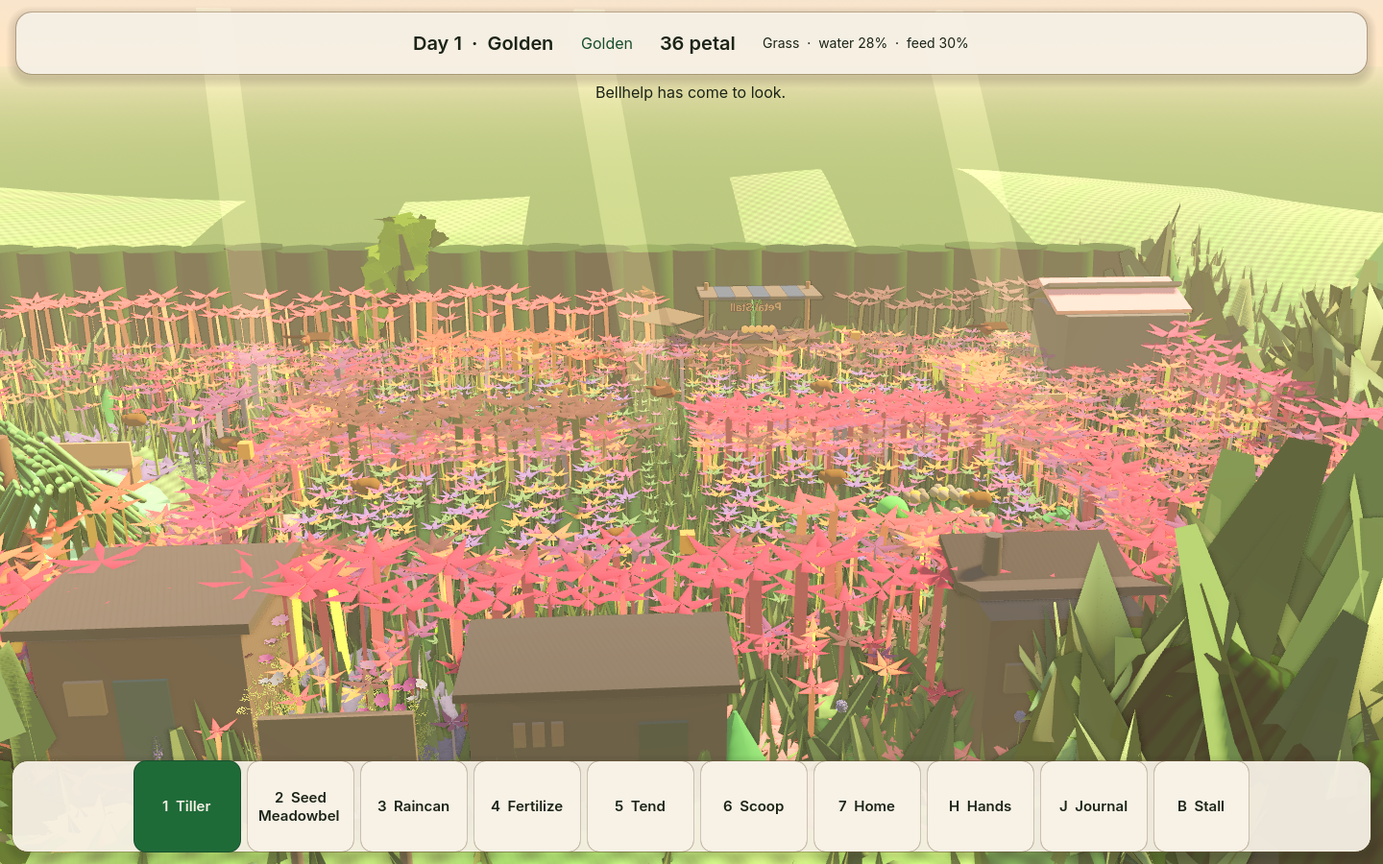
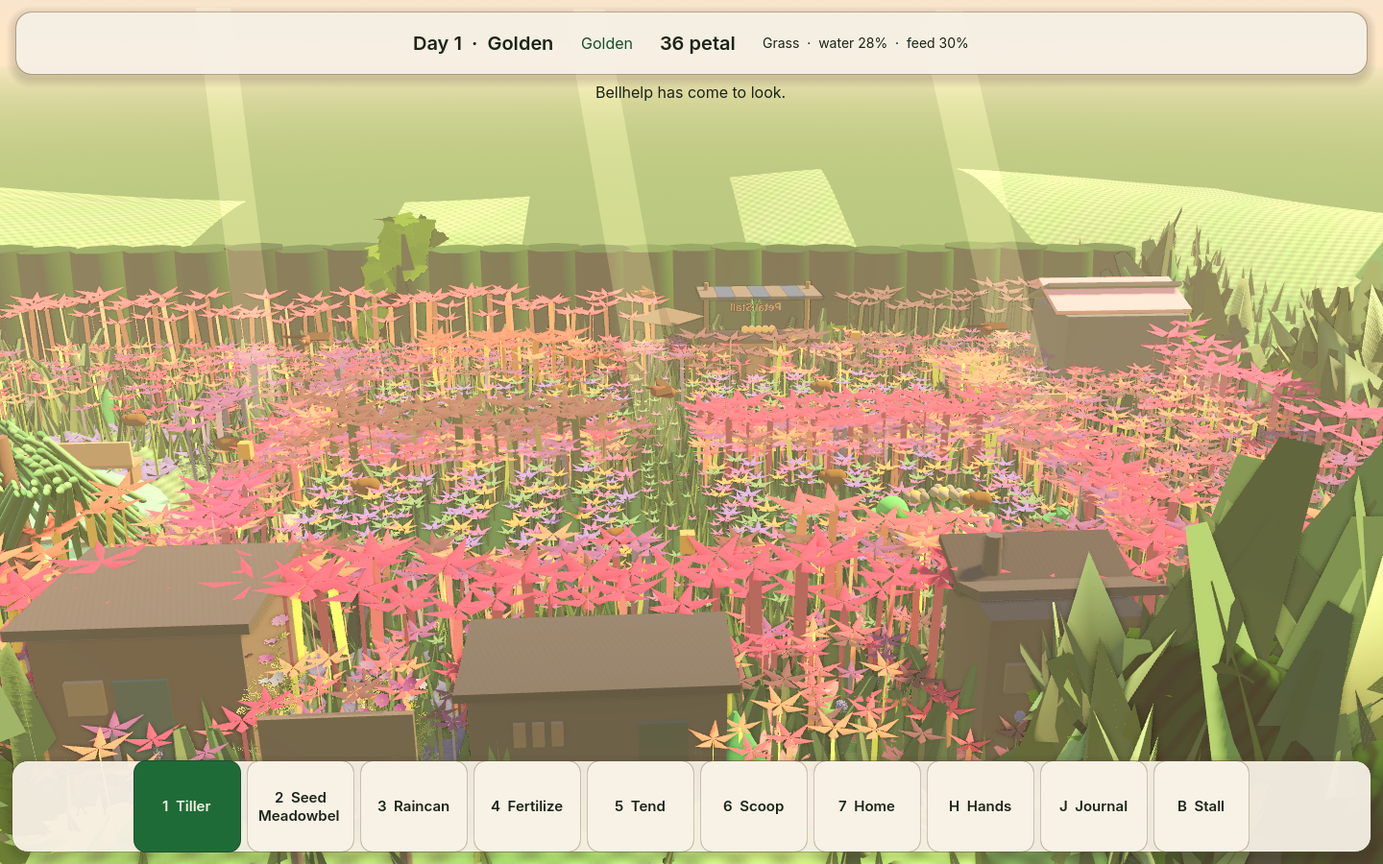
The south lawn in front of the rooms carries a tighter bloom grid.
The worn walks and the south hedge stay open. Hailo health
answered and POST /v1/decide returned 502, so this was not a
choice from that service.

diff --git a/docs/PETALWILD_MASTER_STATE.md b/docs/PETALWILD_MASTER_STATE.md
@@ -38,7 +38,7 @@ This machine has no Vulkan surface. Godot falls back to OpenGL 3 / llvmpipe. Aud
 - The garden does not yet look like the concept plates. See the gap list below.
 - Bellhelp’s five sphere lobes are gone. Five narrow petals run from the tips down to a small pad, with a dark five-petal well, a gold seed, a wider flared whorl, a lower rim, five gap tips past the lobes, a darker band, and a wide short rank inside the tips. The wide skirt of spheres is gone.
 - Lumen’s stalk is one fluted taper, cream at the base and green at the crown. The raised hand holds a seed tray. Each hand is a palm with three fingers and a thumb.
-- Crest leaf cards are 0.4 scale, and the far hedge keeps one 2.5 m tuft in four. A dark shrub row stands just behind that wall, taller at the east end. Light-green in the upper opening band fell from 53% to 24%, and in the lower band from 36% to 13%. The hill did not move. The stall still shows through the middle. The bright blue in that opening was the awning cloth. That stripe is darker now, about (171, 171, 173), and the sky-blue detector on the overview is 0. The shrub row behind the wall was the pale green in the upper band. That check now covers 1.2%, down from 3.5%. The crest leaf cards and the far trees were the side-opening pale pixels. The north backdrop trees are shorter. Paths are dark dirt with darker flagstones. Blooms are rose. StandardMaterial specular is off. The bench and planter are darkened, bright plant-atlas texels are capped, and the lantern glass is amber. The pink disk by the south-west rail, the untilled grass-plot tops, the meadowbell petals, the mauve bed, the resident hands, the light flagstones, the path dirt, and the loose stones are darkened. Overview pixels at pure white are 0. A planted cell keeps the meadow lid, so the crop sits in the bed. The north and south plots meet across the lawn. Flowers spill past the outer edges of the four beds and still line the north-south path. The path center stays open. The north-south track is narrower and its shoulders are meadow. The south and north tracks are narrower too. The wooden frames and the inner hedge around the beds are gone. The bed tracks are meadow, with the same lawn grass. The stall spur and the pond path stay worn, and flowers line both edges. The worn centers stay open. On the smaller-stone shot that check was 1.16% (870 pixels). On the open-stone shot that check was 1.28% (955 pixels). On the flower-track shot that check was 1.53% (1148 pixels) and the hill mean was (212.2, 223.9, 146.6). On the track-grass shot the upper-band check was 1.21% (903 pixels) and the hill mean was (212.0, 223.6, 146.4). On the worn-walk shot the ledger wrote 1.56% (1166 pixels). That file measures 3.72% (2780 of 74800). Empty meadow cells carry a fuller clump. A planted cell keeps eight flowers on its rim, and the stem stays clear. The worn centers stay open. The lawn just inside the west hedge carries a tighter bloom grid. The north apron continues east of the beds. The hedge wall stays. On this shot the upper-band check is 3.81% (2849 pixels) and the hill mean is (212.1, 223.8, 146.5). After dusk the three path lanterns brighten. The afternoon shot stays as it is. The north apron continues east of the beds, and the worn walks stay open. Eight bees drift over the beds. Four birds cross the garden by day and perch at dusk and in the rain.
+- Crest leaf cards are 0.4 scale, and the far hedge keeps one 2.5 m tuft in four. A dark shrub row stands just behind that wall, taller at the east end. Light-green in the upper opening band fell from 53% to 24%, and in the lower band from 36% to 13%. The hill did not move. The stall still shows through the middle. The bright blue in that opening was the awning cloth. That stripe is darker now, about (171, 171, 173), and the sky-blue detector on the overview is 0. The shrub row behind the wall was the pale green in the upper band. That check now covers 1.2%, down from 3.5%. The crest leaf cards and the far trees were the side-opening pale pixels. The north backdrop trees are shorter. Paths are dark dirt with darker flagstones. Blooms are rose. StandardMaterial specular is off. The bench and planter are darkened, bright plant-atlas texels are capped, and the lantern glass is amber. The pink disk by the south-west rail, the untilled grass-plot tops, the meadowbell petals, the mauve bed, the resident hands, the light flagstones, the path dirt, and the loose stones are darkened. Overview pixels at pure white are 0. A planted cell keeps the meadow lid, so the crop sits in the bed. The north and south plots meet across the lawn. Flowers spill past the outer edges of the four beds and still line the north-south path. The path center stays open. The north-south track is narrower and its shoulders are meadow. The south and north tracks are narrower too. The wooden frames and the inner hedge around the beds are gone. The bed tracks are meadow, with the same lawn grass. The stall spur and the pond path stay worn, and flowers line both edges. The worn centers stay open. On the smaller-stone shot that check was 1.16% (870 pixels). On the open-stone shot that check was 1.28% (955 pixels). On the flower-track shot that check was 1.53% (1148 pixels) and the hill mean was (212.2, 223.9, 146.6). On the track-grass shot the upper-band check was 1.21% (903 pixels) and the hill mean was (212.0, 223.6, 146.4). On the worn-walk shot the ledger wrote 1.56% (1166 pixels). That file measures 3.72% (2780 of 74800). Empty meadow cells carry a fuller clump. A planted cell keeps eight flowers on its rim, and the stem stays clear. The worn centers stay open. The lawn just inside the west hedge carries a tighter bloom grid. The north apron continues east of the beds. The south lawn in front of the rooms carries a tighter bloom grid. The hedge wall stays. On this shot the upper-band check is 3.81% (2849 pixels) and the hill mean is (212.1, 223.8, 146.5). After dusk the three path lanterns brighten. The afternoon shot stays as it is. The north apron continues east of the beds, and the south lawn in front of the rooms carries a tighter bloom grid. The worn walks stay open. Eight bees drift over the beds. Four birds cross the garden by day and perch at dusk and in the rain.
 - City, venues, and the agent civilisation are a single parish record (`data/district.json`, Hedge Hollow, phase A).
 - On-screen jellies stay at district fidelity or nearer. The directory shows each resident's home and job. The parish page lists venues. Petal Stall, the potting shed, the hedge tea house, the research hut, the media foundry, and the town hall board are open. Grove Park is not built, and demand for it is not simulated. Petal Stall demand is the people present plus creature residents.
 - Trust cannot research, draft, or act outside the process.
@@ -68,10 +68,10 @@ The north backdrop trees are shorter than the hedge. Crest leaf cards are 0.4 sc
 
 Three largest gaps still open, against `docs/reference/petalwild_target_garden_01.png` and `petalwild_target_garden_02.png`:
 
-1. **Hedge skyline.** The crest cards and the far trees are darker. On this shot 3.75% of the upper band is still light-green (2802 of 74800 pixels). The previous file, same check, is 2849. Most of that mask sits at screen x 1240–1400 (2324 of 2802). The hill mean is (212.2, 223.9, 146.6). The stall still shows through the middle. The south rooms, the gate board, and the bed blooms sit lower and do not cover that edge. PETAL-05.
+1. **Hedge skyline.** The crest cards and the far trees are darker. On this shot 3.65% of the upper band is still light-green (2733 of 74800 pixels). The previous file, same check, is 2802. Most of that mask sits at screen x 1240–1400 (2282 of 2733). The hill mean is (212.2, 223.9, 146.6). The stall still shows through the middle. The south rooms, the gate board, and the bed blooms sit lower and do not cover that edge. PETAL-05.
 2. **Bellhelp.** Ten tips, a short rank inside them, a darker band, and a wider skirt. The dark throat is still the center. PETAL-03.
-3. **Plot grid.** The wooden frames and the inner hedge around the four beds are gone. The parish hedge stays. Flowers spill past the outer edges of the beds and still line the north-south path. The north-south, south, and north bed tracks no longer carry stones. Meadow, flowers, and the same lawn grass cover them. The stall spur and the pond path stay worn, and flowers line both edges. Empty cells carry a fuller clump. A planted cell keeps eight flowers on its rim, and the stem stays clear. The parish lawn carries the meadow up to the bed edge. The west margin and the north apron carry a tighter bloom grid. The bridge strips between the beds carry a tighter bloom grid. The lawn just inside the west hedge carries a tighter bloom grid. The north apron continues east of the beds. The hedge wall stays. The worn centers, the stall spur, and the center between the strips stay open. The rooms and the pond stay clear. The bridge boxes stay. The plates are one continuous planting. Overview pixels at pure white are 0. The brightest pixel on this overview is (251, 255, 217) at screen (156, 513). PETAL-06.
+3. **Plot grid.** The wooden frames and the inner hedge around the four beds are gone. The parish hedge stays. Flowers spill past the outer edges of the beds and still line the north-south path. The north-south, south, and north bed tracks no longer carry stones. Meadow, flowers, and the same lawn grass cover them. The stall spur and the pond path stay worn, and flowers line both edges. Empty cells carry a fuller clump. A planted cell keeps eight flowers on its rim, and the stem stays clear. The parish lawn carries the meadow up to the bed edge. The west margin and the north apron carry a tighter bloom grid. The bridge strips between the beds carry a tighter bloom grid. The lawn just inside the west hedge carries a tighter bloom grid. The north apron continues east of the beds. The south lawn in front of the rooms carries a tighter bloom grid. The hedge wall stays. The worn centers, the stall spur, and the center between the strips stay open. The rooms and the pond stay clear. The bridge boxes stay. The plates are one continuous planting. Overview pixels at pure white are 0. The brightest pixel on this overview is (251, 255, 217) at screen (161, 512). PETAL-06.
 
 ## Next integration
 
-Keep this build playable. The next pass stays inside `scenes/main.tscn` (Hedge Hollow). The creature chain through Gushorn can happen in this garden, and two resident Bellhelps raise the species to breeding. The later resident walks to the first, the journal says a pair is in the parish, a breeding pair leaves one young beside them, a thin meadow does not send that young to the hedge while the pair remains, a reload keeps that young, and off-screen they share the first resident's home kit. A resident who is petted until they trust your hands is bonded. By day they walk to the gardener, the journal keeps that trust beside the pair, and a reload keeps the bond. By day a resident on screen walks to a ripe plant they came for and bites when they reach it. That plant has to grow back. Off screen they bite without crossing the garden. A reload keeps them headed for the fruit. A dry crop droops and loses height until the bed is watered. A tired crop stands shorter until the bed is fed, and a dry one still droops. Left dry for six hours, it is gone from the bed, and a reload keeps that clock. A living crop tires its bed. By day Bram feeds the one under that crop's fertility line, thirst still comes first, the pouch is not spent, and a reload keeps that walk. He leaves a tired bramble when a settled Grapling is resting on it and feeds the next tired bed. If that cane is the only one, he leaves it. The bed readout says when a crop needs water, when it needs feed, when fruit is returning, when a cane is kept, and when the bells are filling, and when a reed is kept. A dry bed says thirst before the cane. A reload keeps that line. A visitor on the cane does not stop him. A visitor whose plants are gone walks to the gate, the journal says they are heading for the hedge, Nessa writes the departure into the parish book, and a reload keeps that walk. When two visitors leave on the same tick she writes both names. If one turns back, that name leaves the page and she still writes the other. If they all turn back, the page stays blank. A reload keeps them in the garden. On an even afternoon it rains from 11:00 through 16:30, Nessa walks the tea house, the hut, and the foundry, Bram walks the shed and the stall, Lumen paces the awning, nothing is filed, the beds take the water, and a reload keeps that shower and the round. A resident with a home kit walks to it and stays awake. With no kit they stay out in the rain. At night, with no kit, they sleep under the stall awning and go back to the flower in the morning. A pair still walks together. A kit still wins. A visitor walks under the stall awning in the rain and at night, and stays awake. In the morning they go back to the flower. A departure still goes to the gate, and a dry afternoon leaves them on the flower. Half an hour of rain carries seed from a ripe plant into the next empty tilled bed. A dry hour does not, and a reload keeps the seedling. In the mist the beds keep the water they already have. The mist does not water them, and it does not carry seed. An odd afternoon stays golden, including the capture hour. Reedic walks to Bulrush. A visitor keeps that walk. Once it has settled, it walks to a reed, on screen and off it, and a wet reed stays wet. A visitor does not hold the water, and a dry reed still dries. Rain cover, a home kit, and a departure still come first. A bonded Reedic stays in the pond. A reload keeps that reed. The bed readout says the reed is kept. Once that Bulrush settles, company arrives, and when the partner settles the journal says a pair. The later one wades to the first. In the pond a Bulrush and a Reedic sit in the water, and so does a young Bulrush. On the lawn, and under a home kit, they stand on the ground. A bonded Bulrush stays in the pond. A reload keeps that pair, and a home kit at night still wins. At dusk Pegapear walks to the nightlantern, and once it has settled the morning sends it back to the peach. A visitor at dusk walks to the lantern too. A resident bites that lantern at dusk and leaves the peach ripe. In the morning the bite is the peach, and the lantern stays ripe. A visitor does not bite. Night does not bite. Off screen the bite still lands. A reload keeps that bite. A bitten lantern on night-loam grows back. Without that loam it stays short. While it is short, dusk still walks to it, on screen and off. A bitten peach still draws the morning. The bed says a bitten crop is growing back once its water and feed are met. A lantern without night-loam says it needs that soil instead. A harvest leaves the same mark, thirst still comes first, and a ripe bed clears it. Off screen that walk continues. Rain cover, a home kit, and a departure still come first. A reload keeps the hour. Gushorn walks to the night-loam. Without a settled crown, one bed of it thins every four hours, and a nightlantern on that soil stops growing. A settled Gushorn holds the loam. Rain cover, a home kit, and a departure still come first. A reload keeps that clock. When fewer than four beds still hold it, a resident Dusknip lays the night-loam back, including under a nightlantern that had gone thin. A visitor does not. A Gushorn still short of the hedge turns back once that soil returns. A reload keeps the beds. Berrypatch walks to a bitten cane, on screen and off it. Once it has settled there, a wet fed cane ripens again. A visitor does not, and a dry or tired cane stays bitten. Rain cover, a home kit, and a departure still come first. A reload keeps that fruit. Grapling creeps, vine-slow, to a bramble, on screen and off it. Once it has settled and is resting on that cane, the bed stops tiring while the cane is wet. A visitor does not feed it, and a dry cane still tires. Rain cover, a home kit, and a departure still come first. A reload keeps the grapling on that cane. Cirlark and Dusknip walk to Bellhelp. A visitor Cirlark keeps that walk. Once it has settled, it walks to a short meadowbell, on screen and off it, and a wet fed bell fills in. A visitor does not fill it, and a dry or tired bell stays short. Rain cover, a home kit, and a departure still come first. A reload keeps that bell. The bed readout says the bells are filling. A departure is not followed. Rain cover and a home kit still win. A settler stays. A placed home kit is a moss shelter. Off-screen, a resident still bites a ripe plant they came for, and a reload keeps that bite. Grove Park is still not built. The hedge tea house stands on the south lawn. The research hut stands west of it, and the media foundry stands between them. The town hall is a board by the south gate. Meadowbells are a clump of three, and every crop sits in a ring of leaves. The wooden frames and the inner hedge around the four beds are gone. The parish hedge stays. Flowers spill past the outer edges of the beds and still line the north-south path. The north-south, south, and north bed tracks no longer carry stones. Meadow, flowers, and the same lawn grass cover them. The stall spur and the pond path stay worn, and flowers line both edges. The worn centers stay open. Empty meadow cells carry a fuller clump. A planted cell keeps eight flowers on its rim, and the stem stays clear. The worn centers stay open. The lawn just inside the west hedge carries a tighter bloom grid. The north apron continues east of the beds. The hedge wall stays. After dusk the three path lanterns brighten, and the afternoon shot stays as it is. On this shot 3.75% of the upper band is still light green (2802 of 74800 pixels). The previous file is 2849, mostly at screen x 1240–1400, and the stall still shows through the middle. The hill mean is (212.2, 223.9, 146.6). The east apron band (screen y 370–450, x 40–560) changed 43.6%. The south rooms and the town hall board sit in the foreground. Bees sit on the flowers while it rains. Do not paint that hill edge, do not cut the hill, and do not raise the east shrubs. Do not fill Bellhelp’s dark throat. Do not open a side demo. The Kenney/Cara grove in `scripts/presentation/` is not the running scene.
+Keep this build playable. The next pass stays inside `scenes/main.tscn` (Hedge Hollow). The creature chain through Gushorn can happen in this garden, and two resident Bellhelps raise the species to breeding. The later resident walks to the first, the journal says a pair is in the parish, a breeding pair leaves one young beside them, a thin meadow does not send that young to the hedge while the pair remains, a reload keeps that young, and off-screen they share the first resident's home kit. A resident who is petted until they trust your hands is bonded. By day they walk to the gardener, the journal keeps that trust beside the pair, and a reload keeps the bond. By day a resident on screen walks to a ripe plant they came for and bites when they reach it. That plant has to grow back. Off screen they bite without crossing the garden. A reload keeps them headed for the fruit. A dry crop droops and loses height until the bed is watered. A tired crop stands shorter until the bed is fed, and a dry one still droops. Left dry for six hours, it is gone from the bed, and a reload keeps that clock. A living crop tires its bed. By day Bram feeds the one under that crop's fertility line, thirst still comes first, the pouch is not spent, and a reload keeps that walk. He leaves a tired bramble when a settled Grapling is resting on it and feeds the next tired bed. If that cane is the only one, he leaves it. The bed readout says when a crop needs water, when it needs feed, when fruit is returning, when a cane is kept, and when the bells are filling, and when a reed is kept. A dry bed says thirst before the cane. A reload keeps that line. A visitor on the cane does not stop him. A visitor whose plants are gone walks to the gate, the journal says they are heading for the hedge, Nessa writes the departure into the parish book, and a reload keeps that walk. When two visitors leave on the same tick she writes both names. If one turns back, that name leaves the page and she still writes the other. If they all turn back, the page stays blank. A reload keeps them in the garden. On an even afternoon it rains from 11:00 through 16:30, Nessa walks the tea house, the hut, and the foundry, Bram walks the shed and the stall, Lumen paces the awning, nothing is filed, the beds take the water, and a reload keeps that shower and the round. A resident with a home kit walks to it and stays awake. With no kit they stay out in the rain. At night, with no kit, they sleep under the stall awning and go back to the flower in the morning. A pair still walks together. A kit still wins. A visitor walks under the stall awning in the rain and at night, and stays awake. In the morning they go back to the flower. A departure still goes to the gate, and a dry afternoon leaves them on the flower. Half an hour of rain carries seed from a ripe plant into the next empty tilled bed. A dry hour does not, and a reload keeps the seedling. In the mist the beds keep the water they already have. The mist does not water them, and it does not carry seed. An odd afternoon stays golden, including the capture hour. Reedic walks to Bulrush. A visitor keeps that walk. Once it has settled, it walks to a reed, on screen and off it, and a wet reed stays wet. A visitor does not hold the water, and a dry reed still dries. Rain cover, a home kit, and a departure still come first. A bonded Reedic stays in the pond. A reload keeps that reed. The bed readout says the reed is kept. Once that Bulrush settles, company arrives, and when the partner settles the journal says a pair. The later one wades to the first. In the pond a Bulrush and a Reedic sit in the water, and so does a young Bulrush. On the lawn, and under a home kit, they stand on the ground. A bonded Bulrush stays in the pond. A reload keeps that pair, and a home kit at night still wins. At dusk Pegapear walks to the nightlantern, and once it has settled the morning sends it back to the peach. A visitor at dusk walks to the lantern too. A resident bites that lantern at dusk and leaves the peach ripe. In the morning the bite is the peach, and the lantern stays ripe. A visitor does not bite. Night does not bite. Off screen the bite still lands. A reload keeps that bite. A bitten lantern on night-loam grows back. Without that loam it stays short. While it is short, dusk still walks to it, on screen and off. A bitten peach still draws the morning. The bed says a bitten crop is growing back once its water and feed are met. A lantern without night-loam says it needs that soil instead. A harvest leaves the same mark, thirst still comes first, and a ripe bed clears it. Off screen that walk continues. Rain cover, a home kit, and a departure still come first. A reload keeps the hour. Gushorn walks to the night-loam. Without a settled crown, one bed of it thins every four hours, and a nightlantern on that soil stops growing. A settled Gushorn holds the loam. Rain cover, a home kit, and a departure still come first. A reload keeps that clock. When fewer than four beds still hold it, a resident Dusknip lays the night-loam back, including under a nightlantern that had gone thin. A visitor does not. A Gushorn still short of the hedge turns back once that soil returns. A reload keeps the beds. Berrypatch walks to a bitten cane, on screen and off it. Once it has settled there, a wet fed cane ripens again. A visitor does not, and a dry or tired cane stays bitten. Rain cover, a home kit, and a departure still come first. A reload keeps that fruit. Grapling creeps, vine-slow, to a bramble, on screen and off it. Once it has settled and is resting on that cane, the bed stops tiring while the cane is wet. A visitor does not feed it, and a dry cane still tires. Rain cover, a home kit, and a departure still come first. A reload keeps the grapling on that cane. Cirlark and Dusknip walk to Bellhelp. A visitor Cirlark keeps that walk. Once it has settled, it walks to a short meadowbell, on screen and off it, and a wet fed bell fills in. A visitor does not fill it, and a dry or tired bell stays short. Rain cover, a home kit, and a departure still come first. A reload keeps that bell. The bed readout says the bells are filling. A departure is not followed. Rain cover and a home kit still win. A settler stays. A placed home kit is a moss shelter. Off-screen, a resident still bites a ripe plant they came for, and a reload keeps that bite. Grove Park is still not built. The hedge tea house stands on the south lawn. The research hut stands west of it, and the media foundry stands between them. The town hall is a board by the south gate. Meadowbells are a clump of three, and every crop sits in a ring of leaves. The wooden frames and the inner hedge around the four beds are gone. The parish hedge stays. Flowers spill past the outer edges of the beds and still line the north-south path. The north-south, south, and north bed tracks no longer carry stones. Meadow, flowers, and the same lawn grass cover them. The stall spur and the pond path stay worn, and flowers line both edges. The worn centers stay open. Empty meadow cells carry a fuller clump. A planted cell keeps eight flowers on its rim, and the stem stays clear. The worn centers stay open. The lawn just inside the west hedge carries a tighter bloom grid. The north apron continues east of the beds. The south lawn in front of the rooms carries a tighter bloom grid. The hedge wall stays. After dusk the three path lanterns brighten, and the afternoon shot stays as it is. On this shot 3.65% of the upper band is still light green (2733 of 74800 pixels). The previous file is 2802, mostly at screen x 1240–1400, and the stall still shows through the middle. The hill mean is (212.2, 223.9, 146.6). The south band (screen y 740–860, x 100–900) changed 21.6%. The south rooms and the town hall board sit in the foreground. Bees sit on the flowers while it rains. Do not paint that hill edge, do not cut the hill, and do not raise the east shrubs. Do not fill Bellhelp’s dark throat. Do not open a side demo. The Kenney/Cara grove in `scripts/presentation/` is not the running scene.

diff --git a/docs/VISUAL_GAP.md b/docs/VISUAL_GAP.md
@@ -2,12 +2,12 @@
 
 Compared on 2026-09-23. The scene `tools/run.sh` launches is Hedge Hollow. Shots: `docs/screenshots/wave1_overview.png`, `wave1_jelly.png`, `wave1_lumen.png`. Targets: `docs/reference/petalwild_target_garden_01.png` and `petalwild_target_garden_02.png`.
 
-The north backdrop trees are shorter than the hedge. Crest leaf cards are 0.4 of their old size, and the far wall keeps one 2.5 m tuft in four. A row of dark shrubs stands just behind that wall. The east end is taller so its lip meets the hedge line. Light-green pixels in the upper opening band (screen y 265–320, x 40–1400) fell from 53% to 24%, and in the lower band (y 290–360, x 80–1200) from 36% to 13%. On the east lip (y 252–272, x 40–300) mean luminance fell from 200 to 162. The hill (y 200–245) did not change. The stall still sits in front of the middle of the wall. The bright blue band in that opening was the awning cloth, not a hole in the hedge. That stripe is darker now and reads about (171, 171, 173). A sky-blue detector on the overview (blue above 200, ahead of red by 20 and of green by 10) is 0. The shrub row behind the wall was lifting to pale green under the sun. The same light-green check (green ahead of red by 15 and of blue by 20, green above 140) now covers 1.2% of the upper band, down from 3.5% on the previous shot. The crest leaf cards and the far trees were the pale pixels in the side openings. The upper hill (screen y 200–230) stayed at about (213, 224, 148). The ground sky below the horizon is green, so a hole in the hill reads as olive rather than pale sky. Bellhelp’s close-up shows five pointed lobes, five gap tips past them, a wide short rank inside that ring, a darker band, and a wider flared whorl. The dark throat stays. The wide skirt of spheres is gone. The bench and planter use a dark multiply on the prop texture, and bright plant-atlas texels are capped. The three lantern glasses are amber instead of pure white. The pink disk by the south-west rail, the untilled grass-plot tops, the meadowbell petals, the mauve bed, the resident hands, the light flagstones, the path dirt, and the loose stones are darkened so they stay under the sun. Eight bees drift over the beds. Four birds cross the garden by day and perch at dusk and in the rain. A planted meadowbell is three bells on a leaf pad, and every crop sits in a ring of eight leaves. Pure white on this overview is 0. On the previous shot the upper-band light-green check was 1.17% and the hill mean was (212.9, 224.4, 147.6). The hedge tea house stands in the lower left of the home shot. On that shot the same check was 1.30% (969 pixels) and the hill mean was (212.0, 223.6, 146.4). The research hut stands in the lower middle of that shot, where the check was 1.17% (874 pixels) and the hill mean was (212.0, 223.6, 146.4). The media foundry stands in the lower middle of that shot, where the check was 1.15% (862 pixels) and the hill mean was (212.0, 223.6, 146.4). The town hall board now stands in the south gate. On the town-hall shot the check was 1.29% (968 pixels) and the hill mean was (212.0, 223.6, 146.4). On the six-bloom shot the check was 1.54% (1155 pixels) and the hill mean was (212.0, 223.7, 146.5). Empty untilled beds now carry nine dark leaf discs and eight short flowers, and a tilled or planted bed clears them. On the leaf-cover shot the check was 1.60% (1197 pixels) and the hill mean was (212.1, 223.8, 146.5). Neighboring empty cells now share an overlapping dark lid, so the brown seam inside a plot closes. On the joined-lid shot the check was 1.61% (1208 pixels) and the hill mean was (212.1, 223.8, 146.5). A planted cell now keeps that dark lid, so the crop sits in the meadow instead of an inset square. On the planted-lid shot the check was 1.54% (1149 pixels) and the hill mean was (212.1, 223.7, 146.5). The north and south plots now meet across the lawn, and the north-south path stays open. On the bridge shot the check was 1.57% (1176 pixels) and the hill mean was (212.2, 223.8, 146.6). Flowers now sit on both lips of the north-south path, and the path center stays open. On the path-lip shot the check was 1.61% (1204 pixels) and the hill mean was (212.1, 223.8, 146.5). Flowers now spill past the outer edges of the four beds, and the path-center pixels are unchanged. On the bed-edge shot the check was 1.45% (1083 pixels) and the hill mean was (212.2, 223.9, 146.6). The north-south track is narrower, its shoulders are meadow, and the center stays stone. On the narrow-track shot the check was 1.46% (1091 pixels) and the hill mean was (212.2, 223.9, 146.6). The south and north tracks are narrower too, with flowers on their lips. On the track-lip shot the check was 1.45% (1083 pixels) and the hill mean was (212.2, 223.9, 146.6). The wooden frames and the inner hedge around the four beds are gone. The parish hedge stays. On the open-bed shot the check was 1.26% (940 pixels) and the hill mean was (212.0, 223.6, 146.4). On the stepping-stone shot the check was 1.52% (1136 pixels) and the hill mean was (212.0, 223.7, 146.5). On the smaller-stone shot the check was 1.16% (870 pixels) and the hill mean was (212.0, 223.6, 146.4). On the open-stone shot the check was 1.28% (955 pixels) and the hill mean was (212.2, 223.9, 146.6). On the flower-track shot the check was 1.53% (1148 pixels) and the hill mean was (212.2, 223.9, 146.6). On the track-grass shot the check was 1.21% (903 pixels) and the hill mean was (212.0, 223.6, 146.4). On the worn-walk shot the ledger wrote 1.56% (1166 pixels) and the hill mean (212.1, 223.7, 146.5). The same light-green check on that file is 3.72% (2780 of 74800). Empty meadow cells carry a fuller clump: larger leaves, larger blooms, and four more flowers in the gaps. Tilling one empty cell clears twenty-one instances. On that shot the check was 3.70% (2766 of 74800) and the hill mean was (212.1, 223.7, 146.5). A planted cell now keeps eight flowers on its rim, and the stem stays clear. Opening that cell into meadow adds the other thirteen. The worn centers stay open. On that shot the check was 3.55% (2657 of 74800) and the hill mean was (212.0, 223.7, 146.4). On that shot the check was 3.80% (2841 of 74800) and the hill mean was (212.1, 223.7, 146.5). On that shot the check was 3.82% (2855 of 74800) and the hill mean was (212.1, 223.8, 146.5). The north apron above the beds carries a tighter bloom grid. The worn walks, the stall spur, the rooms, and the pond stay open. On that shot the check was 3.80% (2844). Against the file before it the band gained 82 pixels and lost 93. The hill mean was (212.1, 223.8, 146.5). 6.62% of the pixels below the horizon changed, and 0.49% above y 320. The apron band (screen y 350–400) changed 17%. The bridge strips between the north and south beds carry a tighter bloom grid. The worn center between them stays open. On that shot the check was 3.78% (2831). Against the file before it the band gained 41 pixels and lost 54. The hill mean was (212.2, 223.8, 146.6). 4.59% of the pixels below the horizon changed, and 0.27% above y 320. The bridge band (screen y 486–525, x 343–1037) changed 6%. The lawn just inside the west hedge now carries a tighter bloom grid. The hedge wall stays. On this shot the check is 3.81% (2849). Against that file the band gained 66 pixels and lost 48. The hill mean is (212.1, 223.8, 146.5). 4.73% of the pixels below the horizon changed, and 0.32% above y 320. The west band (screen y 450–700, x 1260–1440) changed 9%, and rose pixels there went from 2147 to 2749. After dusk the three path lanterns brighten. On the night shot the pond lamp moved from (199, 157, 108) to (254, 197, 114). The afternoon shot stays as it is. The north apron continues east of the beds. The worn walks stay open. On this shot the check is 3.75% (2802 of 74800). Against that file the band gained 163 pixels and lost 210. The hill mean is (212.2, 223.9, 146.6). 28.18% of the pixels below the horizon changed, and 1.78% above y 320. The east apron band (screen y 370–450, x 40–560) changed 43.6%, and rose pixels there went from 27759 to 28986. Pure white is 0. The sky-blue detector is 0.
+The north backdrop trees are shorter than the hedge. Crest leaf cards are 0.4 of their old size, and the far wall keeps one 2.5 m tuft in four. A row of dark shrubs stands just behind that wall. The east end is taller so its lip meets the hedge line. Light-green pixels in the upper opening band (screen y 265–320, x 40–1400) fell from 53% to 24%, and in the lower band (y 290–360, x 80–1200) from 36% to 13%. On the east lip (y 252–272, x 40–300) mean luminance fell from 200 to 162. The hill (y 200–245) did not change. The stall still sits in front of the middle of the wall. The bright blue band in that opening was the awning cloth, not a hole in the hedge. That stripe is darker now and reads about (171, 171, 173). A sky-blue detector on the overview (blue above 200, ahead of red by 20 and of green by 10) is 0. The shrub row behind the wall was lifting to pale green under the sun. The same light-green check (green ahead of red by 15 and of blue by 20, green above 140) now covers 1.2% of the upper band, down from 3.5% on the previous shot. The crest leaf cards and the far trees were the pale pixels in the side openings. The upper hill (screen y 200–230) stayed at about (213, 224, 148). The ground sky below the horizon is green, so a hole in the hill reads as olive rather than pale sky. Bellhelp’s close-up shows five pointed lobes, five gap tips past them, a wide short rank inside that ring, a darker band, and a wider flared whorl. The dark throat stays. The wide skirt of spheres is gone. The bench and planter use a dark multiply on the prop texture, and bright plant-atlas texels are capped. The three lantern glasses are amber instead of pure white. The pink disk by the south-west rail, the untilled grass-plot tops, the meadowbell petals, the mauve bed, the resident hands, the light flagstones, the path dirt, and the loose stones are darkened so they stay under the sun. Eight bees drift over the beds. Four birds cross the garden by day and perch at dusk and in the rain. A planted meadowbell is three bells on a leaf pad, and every crop sits in a ring of eight leaves. Pure white on this overview is 0. On the previous shot the upper-band light-green check was 1.17% and the hill mean was (212.9, 224.4, 147.6). The hedge tea house stands in the lower left of the home shot. On that shot the same check was 1.30% (969 pixels) and the hill mean was (212.0, 223.6, 146.4). The research hut stands in the lower middle of that shot, where the check was 1.17% (874 pixels) and the hill mean was (212.0, 223.6, 146.4). The media foundry stands in the lower middle of that shot, where the check was 1.15% (862 pixels) and the hill mean was (212.0, 223.6, 146.4). The town hall board now stands in the south gate. On the town-hall shot the check was 1.29% (968 pixels) and the hill mean was (212.0, 223.6, 146.4). On the six-bloom shot the check was 1.54% (1155 pixels) and the hill mean was (212.0, 223.7, 146.5). Empty untilled beds now carry nine dark leaf discs and eight short flowers, and a tilled or planted bed clears them. On the leaf-cover shot the check was 1.60% (1197 pixels) and the hill mean was (212.1, 223.8, 146.5). Neighboring empty cells now share an overlapping dark lid, so the brown seam inside a plot closes. On the joined-lid shot the check was 1.61% (1208 pixels) and the hill mean was (212.1, 223.8, 146.5). A planted cell now keeps that dark lid, so the crop sits in the meadow instead of an inset square. On the planted-lid shot the check was 1.54% (1149 pixels) and the hill mean was (212.1, 223.7, 146.5). The north and south plots now meet across the lawn, and the north-south path stays open. On the bridge shot the check was 1.57% (1176 pixels) and the hill mean was (212.2, 223.8, 146.6). Flowers now sit on both lips of the north-south path, and the path center stays open. On the path-lip shot the check was 1.61% (1204 pixels) and the hill mean was (212.1, 223.8, 146.5). Flowers now spill past the outer edges of the four beds, and the path-center pixels are unchanged. On the bed-edge shot the check was 1.45% (1083 pixels) and the hill mean was (212.2, 223.9, 146.6). The north-south track is narrower, its shoulders are meadow, and the center stays stone. On the narrow-track shot the check was 1.46% (1091 pixels) and the hill mean was (212.2, 223.9, 146.6). The south and north tracks are narrower too, with flowers on their lips. On the track-lip shot the check was 1.45% (1083 pixels) and the hill mean was (212.2, 223.9, 146.6). The wooden frames and the inner hedge around the four beds are gone. The parish hedge stays. On the open-bed shot the check was 1.26% (940 pixels) and the hill mean was (212.0, 223.6, 146.4). On the stepping-stone shot the check was 1.52% (1136 pixels) and the hill mean was (212.0, 223.7, 146.5). On the smaller-stone shot the check was 1.16% (870 pixels) and the hill mean was (212.0, 223.6, 146.4). On the open-stone shot the check was 1.28% (955 pixels) and the hill mean was (212.2, 223.9, 146.6). On the flower-track shot the check was 1.53% (1148 pixels) and the hill mean was (212.2, 223.9, 146.6). On the track-grass shot the check was 1.21% (903 pixels) and the hill mean was (212.0, 223.6, 146.4). On the worn-walk shot the ledger wrote 1.56% (1166 pixels) and the hill mean (212.1, 223.7, 146.5). The same light-green check on that file is 3.72% (2780 of 74800). Empty meadow cells carry a fuller clump: larger leaves, larger blooms, and four more flowers in the gaps. Tilling one empty cell clears twenty-one instances. On that shot the check was 3.70% (2766 of 74800) and the hill mean was (212.1, 223.7, 146.5). A planted cell now keeps eight flowers on its rim, and the stem stays clear. Opening that cell into meadow adds the other thirteen. The worn centers stay open. On that shot the check was 3.55% (2657 of 74800) and the hill mean was (212.0, 223.7, 146.4). On that shot the check was 3.80% (2841 of 74800) and the hill mean was (212.1, 223.7, 146.5). On that shot the check was 3.82% (2855 of 74800) and the hill mean was (212.1, 223.8, 146.5). The north apron above the beds carries a tighter bloom grid. The worn walks, the stall spur, the rooms, and the pond stay open. On that shot the check was 3.80% (2844). Against the file before it the band gained 82 pixels and lost 93. The hill mean was (212.1, 223.8, 146.5). 6.62% of the pixels below the horizon changed, and 0.49% above y 320. The apron band (screen y 350–400) changed 17%. The bridge strips between the north and south beds carry a tighter bloom grid. The worn center between them stays open. On that shot the check was 3.78% (2831). Against the file before it the band gained 41 pixels and lost 54. The hill mean was (212.2, 223.8, 146.6). 4.59% of the pixels below the horizon changed, and 0.27% above y 320. The bridge band (screen y 486–525, x 343–1037) changed 6%. The lawn just inside the west hedge now carries a tighter bloom grid. The hedge wall stays. On this shot the check is 3.81% (2849). Against that file the band gained 66 pixels and lost 48. The hill mean is (212.1, 223.8, 146.5). 4.73% of the pixels below the horizon changed, and 0.32% above y 320. The west band (screen y 450–700, x 1260–1440) changed 9%, and rose pixels there went from 2147 to 2749. After dusk the three path lanterns brighten. On the night shot the pond lamp moved from (199, 157, 108) to (254, 197, 114). The afternoon shot stays as it is. The north apron continues east of the beds. The worn walks stay open. On this shot the check is 3.75% (2802 of 74800). Against that file the band gained 163 pixels and lost 210. The hill mean is (212.2, 223.9, 146.6). 28.18% of the pixels below the horizon changed, and 1.78% above y 320. The east apron band (screen y 370–450, x 40–560) changed 43.6%, and rose pixels there went from 27759 to 28986. The south lawn in front of the rooms carries a tighter bloom grid. The worn walks and the south hedge stay open. On this shot the check is 3.65% (2733 of 74800). Against that file the band gained 165 pixels and lost 234. The hill mean is (212.2, 223.9, 146.6). 29.84% of the pixels below the horizon changed, and 1.77% above y 320. The south band (screen y 740–860, x 100–900) changed 21.6%, and rose pixels there went from 8225 to 11752. Pure white is 0. The sky-blue detector is 0.
 
 ## Three largest gaps
 
-1. **Hedge skyline.** The crest cards and the far trees are darker. On this shot 3.75% of the upper band is still light-green (2802 of 74800 pixels). The previous file, same check, is 2849. Most of that mask sits at screen x 1240–1400 (2324 of 2802). The hill mean is (212.2, 223.9, 146.6). The stall still shows through the middle. The south rooms, the gate board, and the bed blooms sit lower and do not cover that edge. PETAL-05.
+1. **Hedge skyline.** The crest cards and the far trees are darker. On this shot 3.65% of the upper band is still light-green (2733 of 74800 pixels). The previous file, same check, is 2802. Most of that mask sits at screen x 1240–1400 (2282 of 2733). The hill mean is (212.2, 223.9, 146.6). The stall still shows through the middle. The south rooms, the gate board, and the bed blooms sit lower and do not cover that edge. PETAL-05.
 
 2. **Bellhelp.** Ten tips, a short rank inside them, a darker band, and a wider skirt. The dark throat is still the center. PETAL-03.
 
-3. **Plot grid.** The wooden frames and the inner hedge around the four beds are gone. The parish hedge stays. Flowers spill past the outer edges of the beds and still line the north-south path. The north-south, south, and north bed tracks no longer carry stones. Meadow, flowers, and the same lawn grass cover them. The stall spur and the pond path stay worn, and flowers line both edges. Empty cells carry a fuller clump. A planted cell keeps eight flowers on its rim, and the stem stays clear. The parish lawn carries the meadow up to the bed edge. The west margin and the north apron carry a tighter bloom grid. The bridge strips between the beds carry a tighter bloom grid. The lawn just inside the west hedge carries a tighter bloom grid. The north apron continues east of the beds. The hedge wall stays. The worn centers, the stall spur, and the center between the strips stay open. The rooms and the pond stay clear. The bridge boxes stay. The plates are one continuous planting. Overview pixels at pure white are 0. The brightest pixel on this overview is (251, 255, 217) at screen (156, 513). PETAL-06.
+3. **Plot grid.** The wooden frames and the inner hedge around the four beds are gone. The parish hedge stays. Flowers spill past the outer edges of the beds and still line the north-south path. The north-south, south, and north bed tracks no longer carry stones. Meadow, flowers, and the same lawn grass cover them. The stall spur and the pond path stay worn, and flowers line both edges. Empty cells carry a fuller clump. A planted cell keeps eight flowers on its rim, and the stem stays clear. The parish lawn carries the meadow up to the bed edge. The west margin and the north apron carry a tighter bloom grid. The bridge strips between the beds carry a tighter bloom grid. The lawn just inside the west hedge carries a tighter bloom grid. The north apron continues east of the beds. The south lawn in front of the rooms carries a tighter bloom grid. The hedge wall stays. The worn centers, the stall spur, and the center between the strips stay open. The rooms and the pond stay clear. The bridge boxes stay. The plates are one continuous planting. Overview pixels at pure white are 0. The brightest pixel on this overview is (251, 255, 217) at screen (161, 512). PETAL-06.
